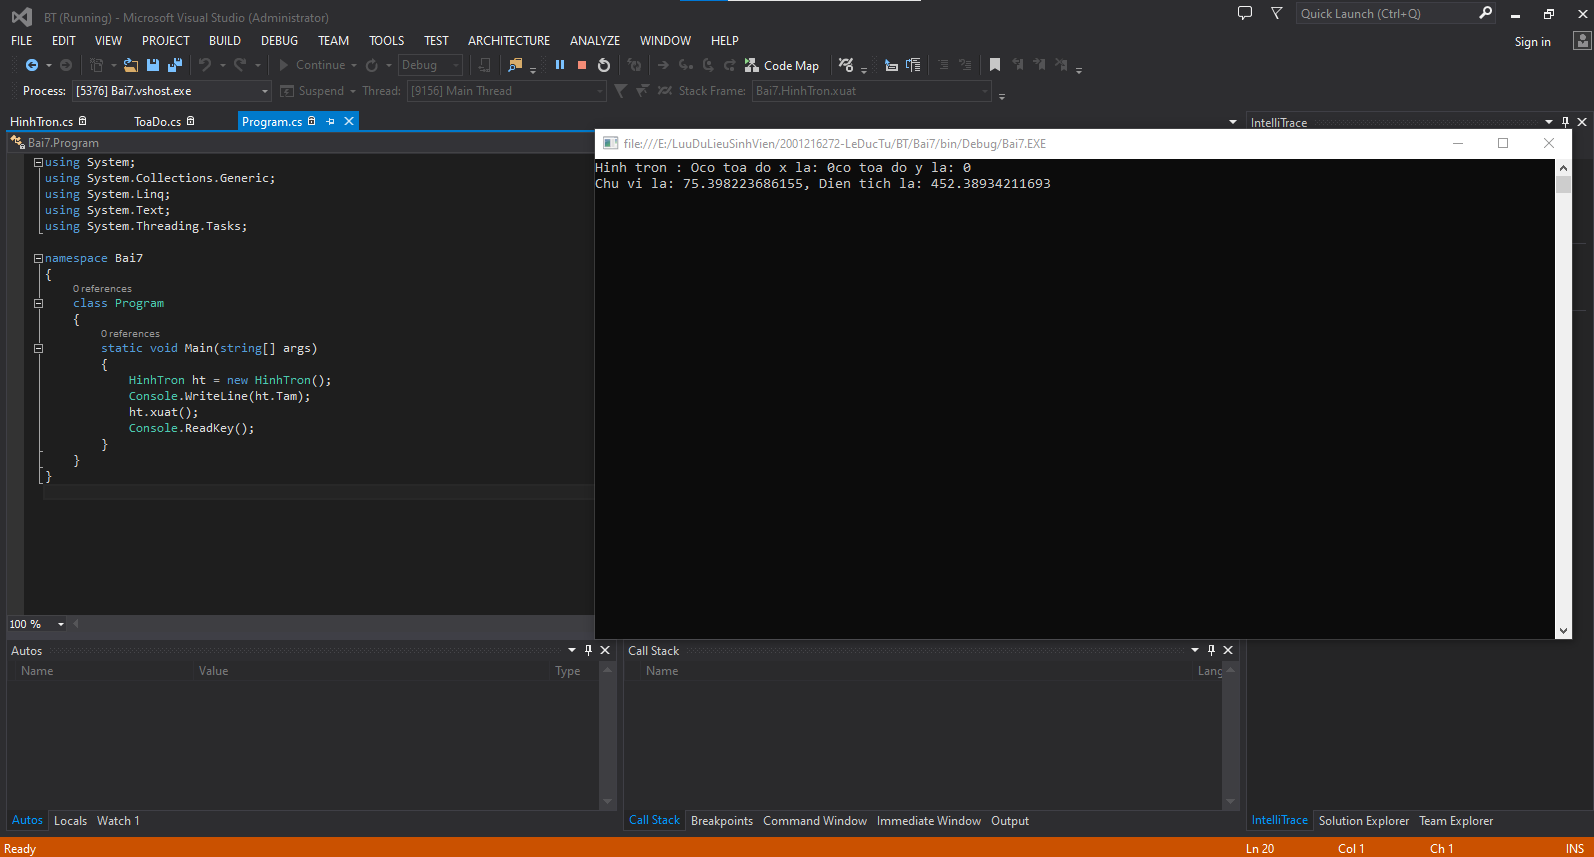
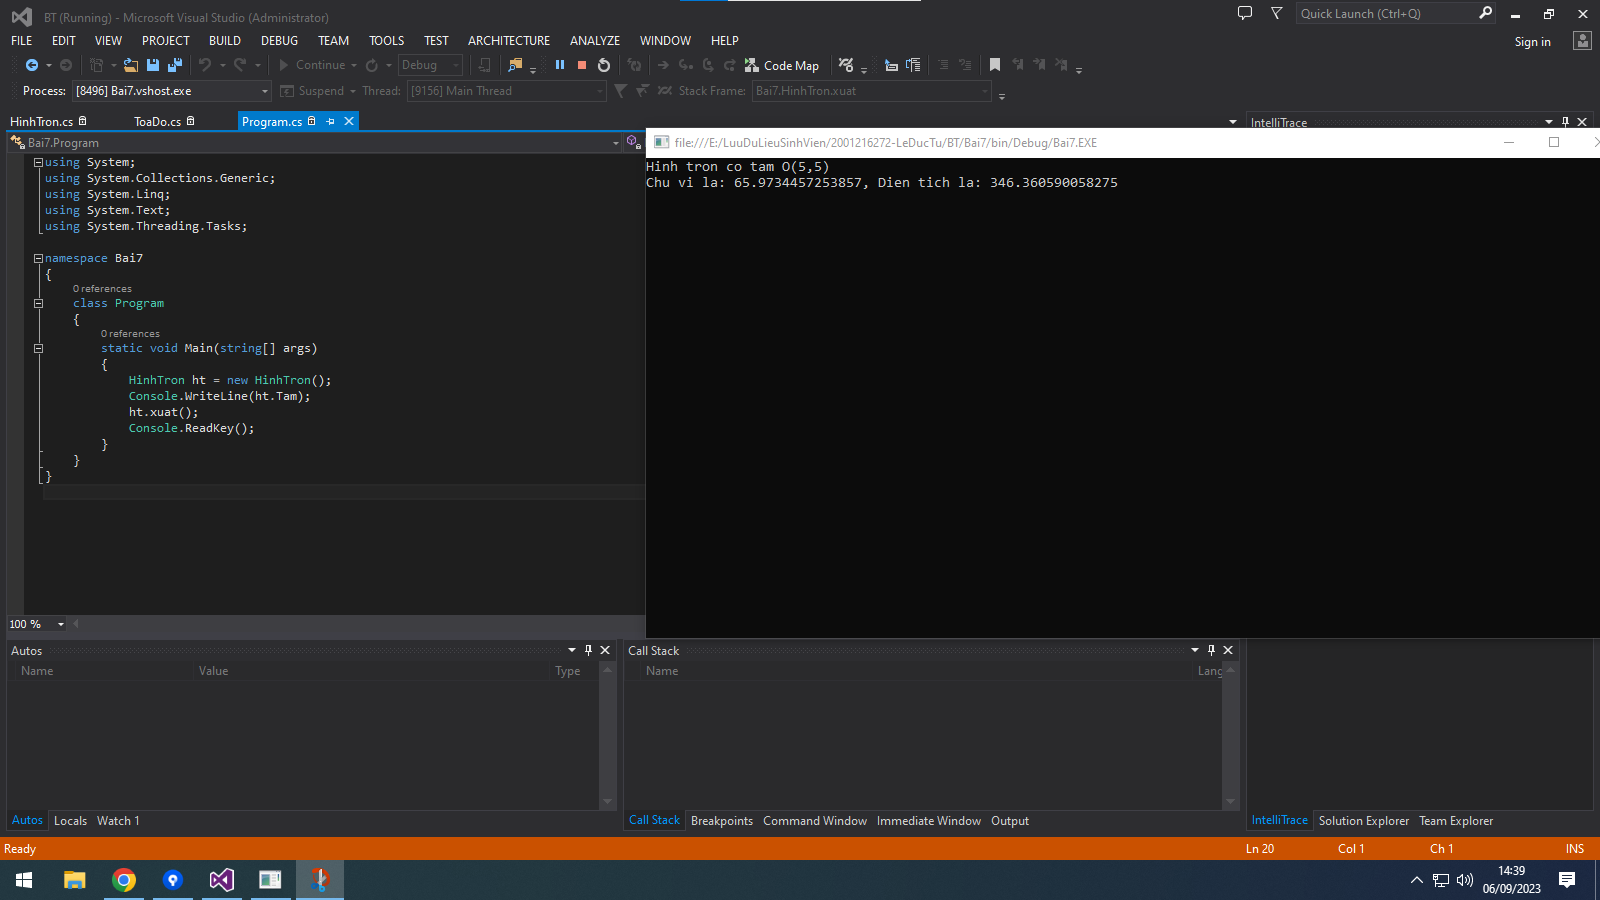
baitaptuan4

diff --git a/Bai7/ToaDo.cs b/Bai7/ToaDo.cs
@@ -34,14 +34,14 @@ namespace Bai7
             this.x = x;
             this.y = y;
         }
-        public ToaDo()
+        public ToaDo():this(5,5)
         {
             ten = "O";
         }
         public override string ToString()
         {
 
-            return "Hinh tron : " + ten + "co toa do x la: " + x + "co toa do y la: " + y;
+            return "Hinh tron co tam " + ten + "(" + x + ","  + y + ")";
         }
     }
 }

diff --git a/Bai7/HinhTron.cs b/Bai7/HinhTron.cs
@@ -33,7 +33,7 @@ namespace Bai7
         public HinhTron()
         {
             Tam = new ToaDo();
-            banKinh = 12;
+            banKinh = 10.5;
         }
         public HinhTron(ToaDo tam, double banKinh)
         {
